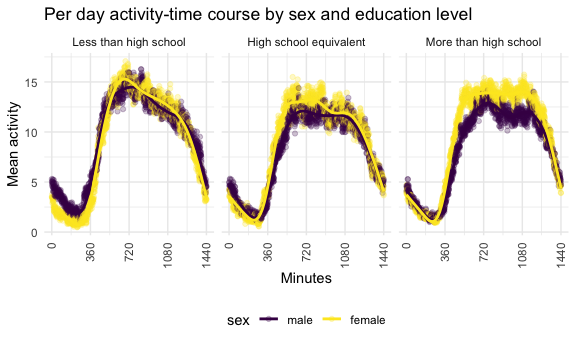
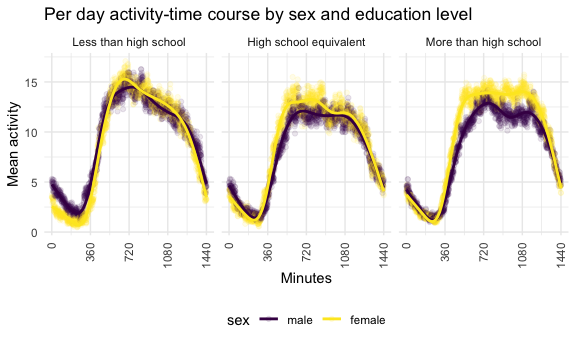
Minor edits

Changed region(s): [[0.4375, 0.2029, 1.0, 0.6667], [0.0625, 0.1739, 0.4688, 0.6667]]

diff --git a/P8105_HW3_msp2210.md b/P8105_HW3_msp2210.md
@@ -610,7 +610,7 @@ nhanes_df %>%
     mean_activity = mean(mims_value)
   ) %>% 
   ggplot(aes(x = minutes, y = mean_activity, color = sex)) +
-  geom_point(alpha = 0.25) +
+  geom_point(alpha = 0.1) +
   geom_smooth(aes(group = sex), se = FALSE) +
   facet_grid(. ~ education) +
   scale_x_continuous(
